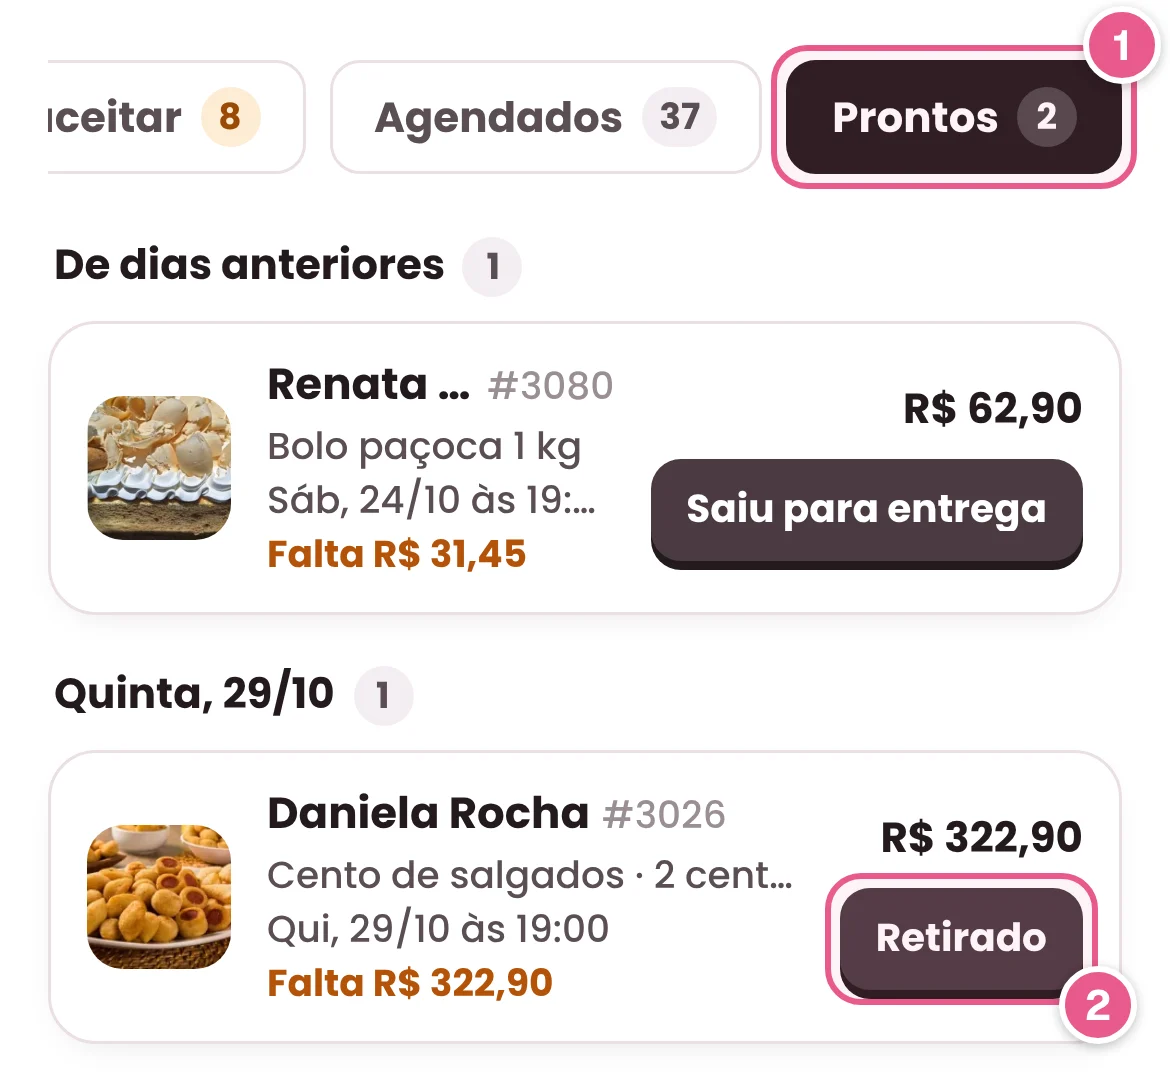
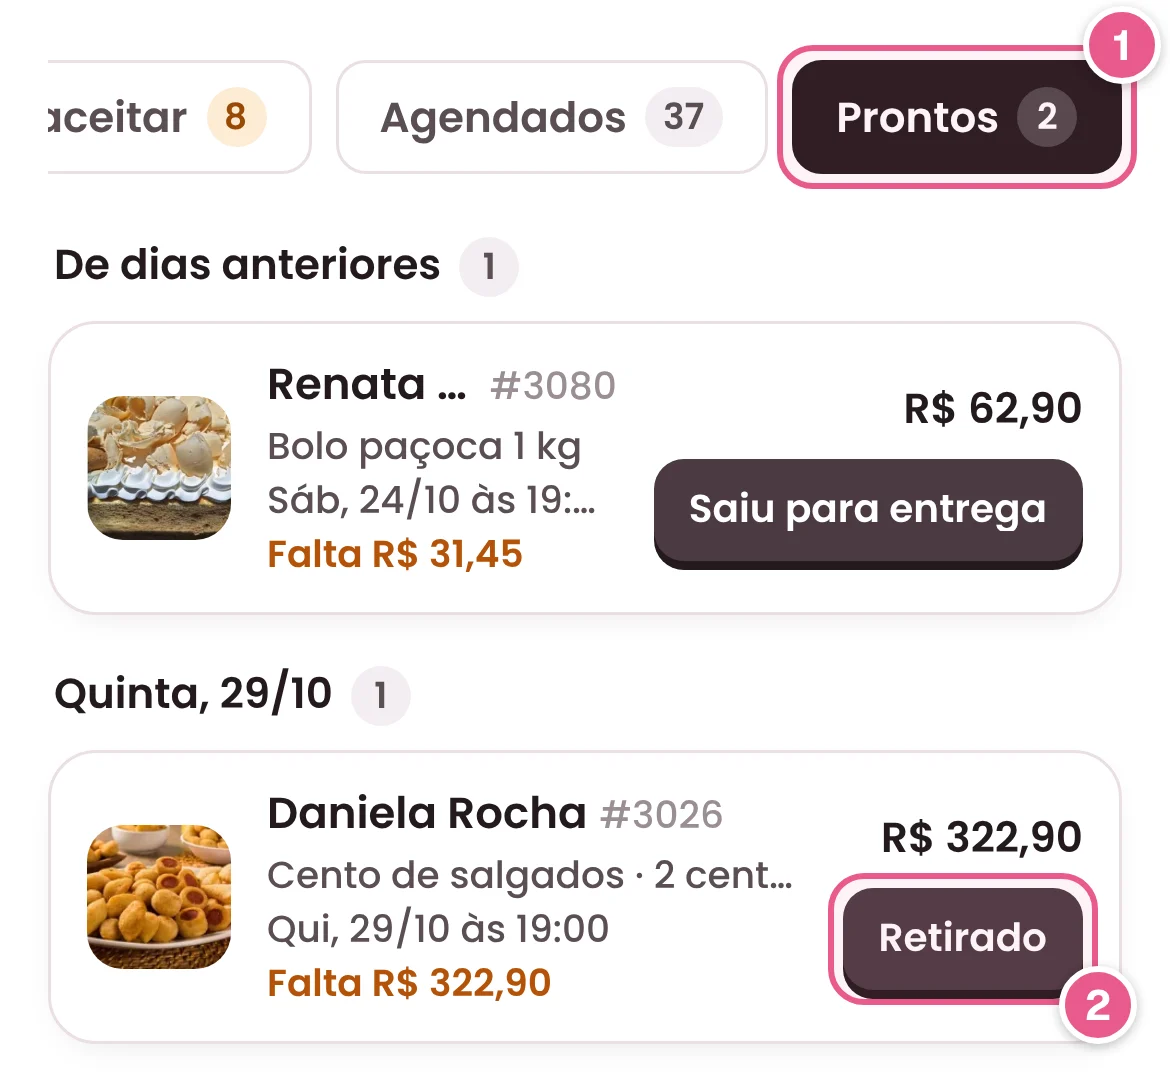
Negrito da Poppins um degrau mais leve (como no Dora)
Claude-Session: https://claude.ai/code/session_01U8RhfXE5Fuj3SEjWU86Vry

diff --git a/src/index.css b/src/index.css
@@ -44,8 +44,9 @@
 @font-face { font-family: 'Poppins'; src: url('/fonts/Poppins-400.woff2') format('woff2'); font-weight: 400; font-style: normal; font-display: swap; }
 @font-face { font-family: 'Poppins'; src: url('/fonts/Poppins-500.woff2') format('woff2'); font-weight: 500; font-style: normal; font-display: swap; }
 @font-face { font-family: 'Poppins'; src: url('/fonts/Poppins-600.woff2') format('woff2'); font-weight: 600; font-style: normal; font-display: swap; }
-@font-face { font-family: 'Poppins'; src: url('/fonts/Poppins-700.woff2') format('woff2'); font-weight: 700; font-style: normal; font-display: swap; }
-@font-face { font-family: 'Poppins'; src: url('/fonts/Poppins-800.woff2') format('woff2'); font-weight: 800 900; font-style: normal; font-display: swap; }
+/* negrito um degrau mais leve, como no Dora: o 700 (b, strong, títulos) usa o arquivo SemiBold e o 800/900 usa o Bold */
+@font-face { font-family: 'Poppins'; src: url('/fonts/Poppins-600.woff2') format('woff2'); font-weight: 700; font-style: normal; font-display: swap; }
+@font-face { font-family: 'Poppins'; src: url('/fonts/Poppins-700.woff2') format('woff2'); font-weight: 800 900; font-style: normal; font-display: swap; }
 html.app-conf { --text-title: #231A1D; --ui-texto: #231A1D; --ui-texto-2: #5A4E53; }
 
 * {

diff --git a/index.html b/index.html
@@ -11,7 +11,7 @@
     <meta name="theme-color" content="#22130E" />
     <link rel="preload" as="image" href="/marca/leve/bolo-coroa.webp" type="image/webp" />
     <link rel="preload" as="font" href="/fonts/Poppins-400.woff2" type="font/woff2" crossorigin />
-    <link rel="preload" as="font" href="/fonts/Poppins-700.woff2" type="font/woff2" crossorigin />
+    <link rel="preload" as="font" href="/fonts/Poppins-600.woff2" type="font/woff2" crossorigin />
     <meta name="description" content="Gestão inteligente para confeitarias" />
     <!-- PWA no iOS (instalação na tela inicial como app nativo) -->
     <meta name="apple-mobile-web-app-capable" content="yes" />
